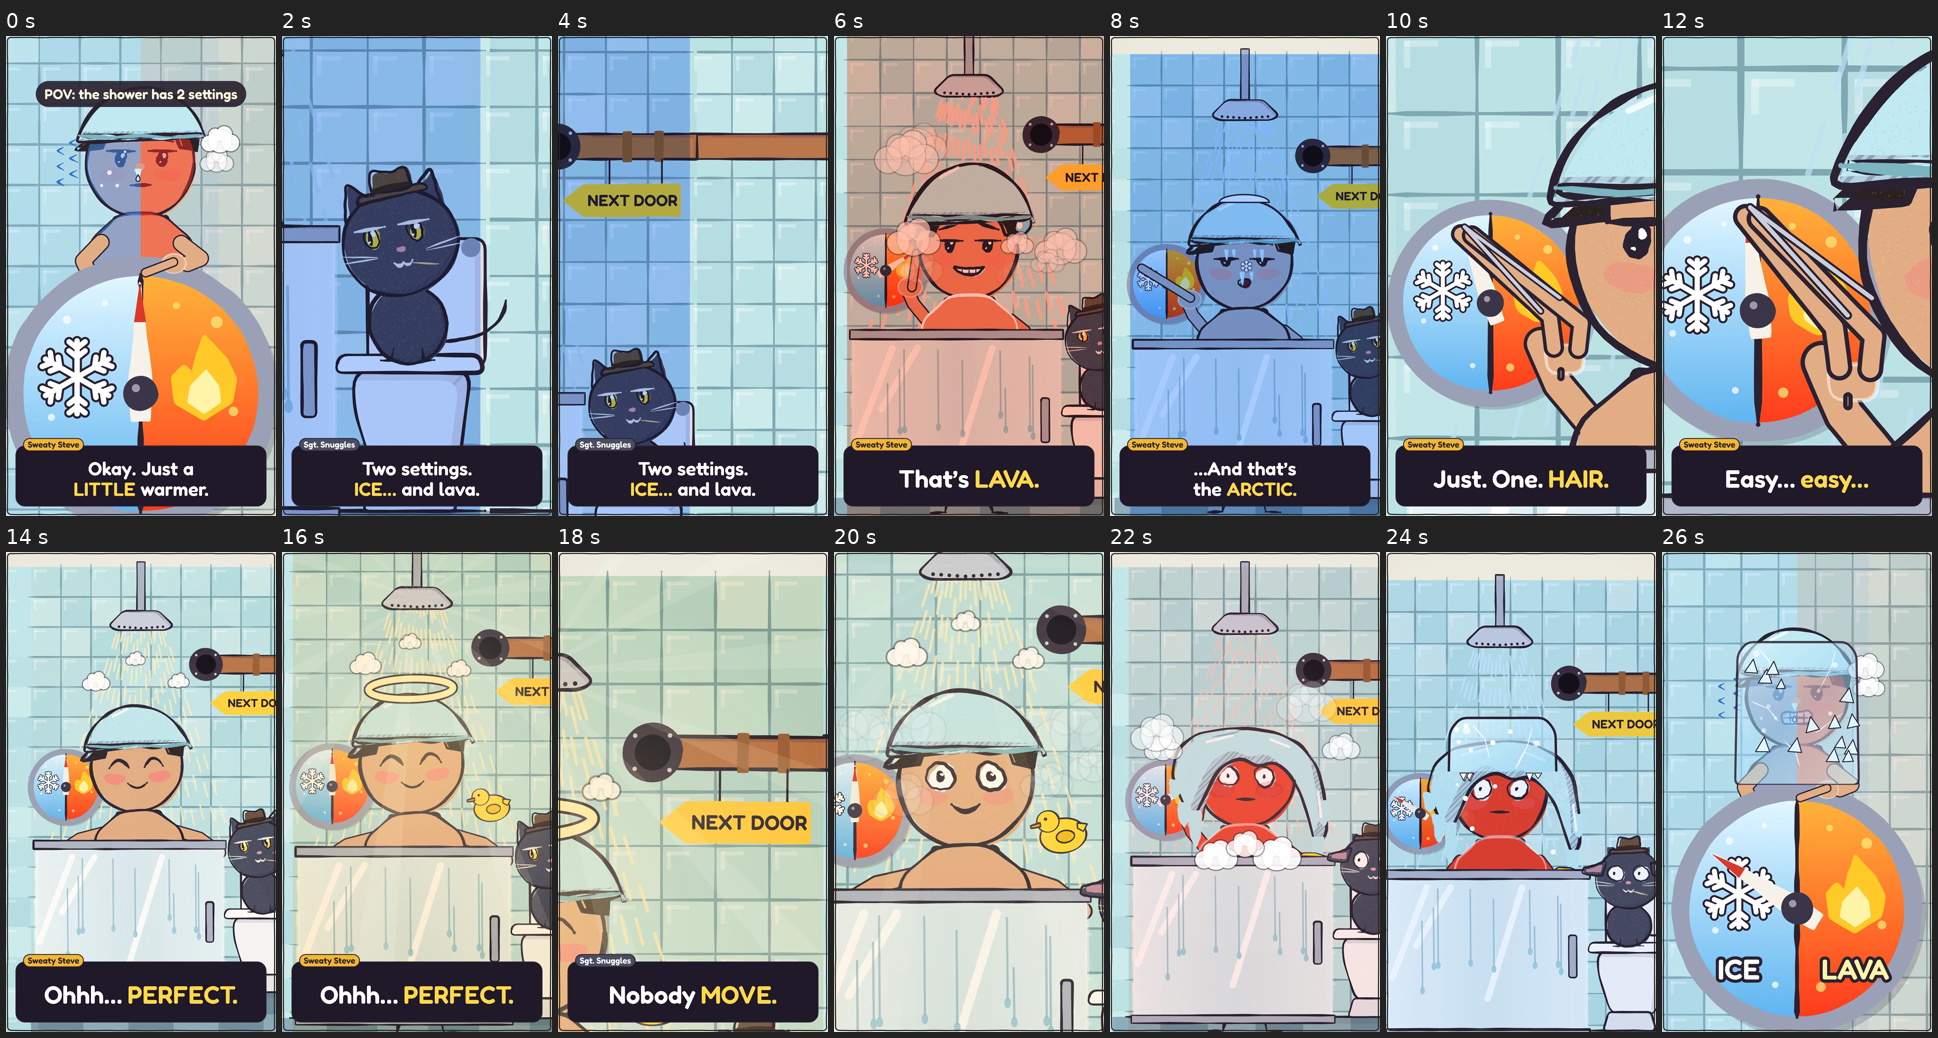
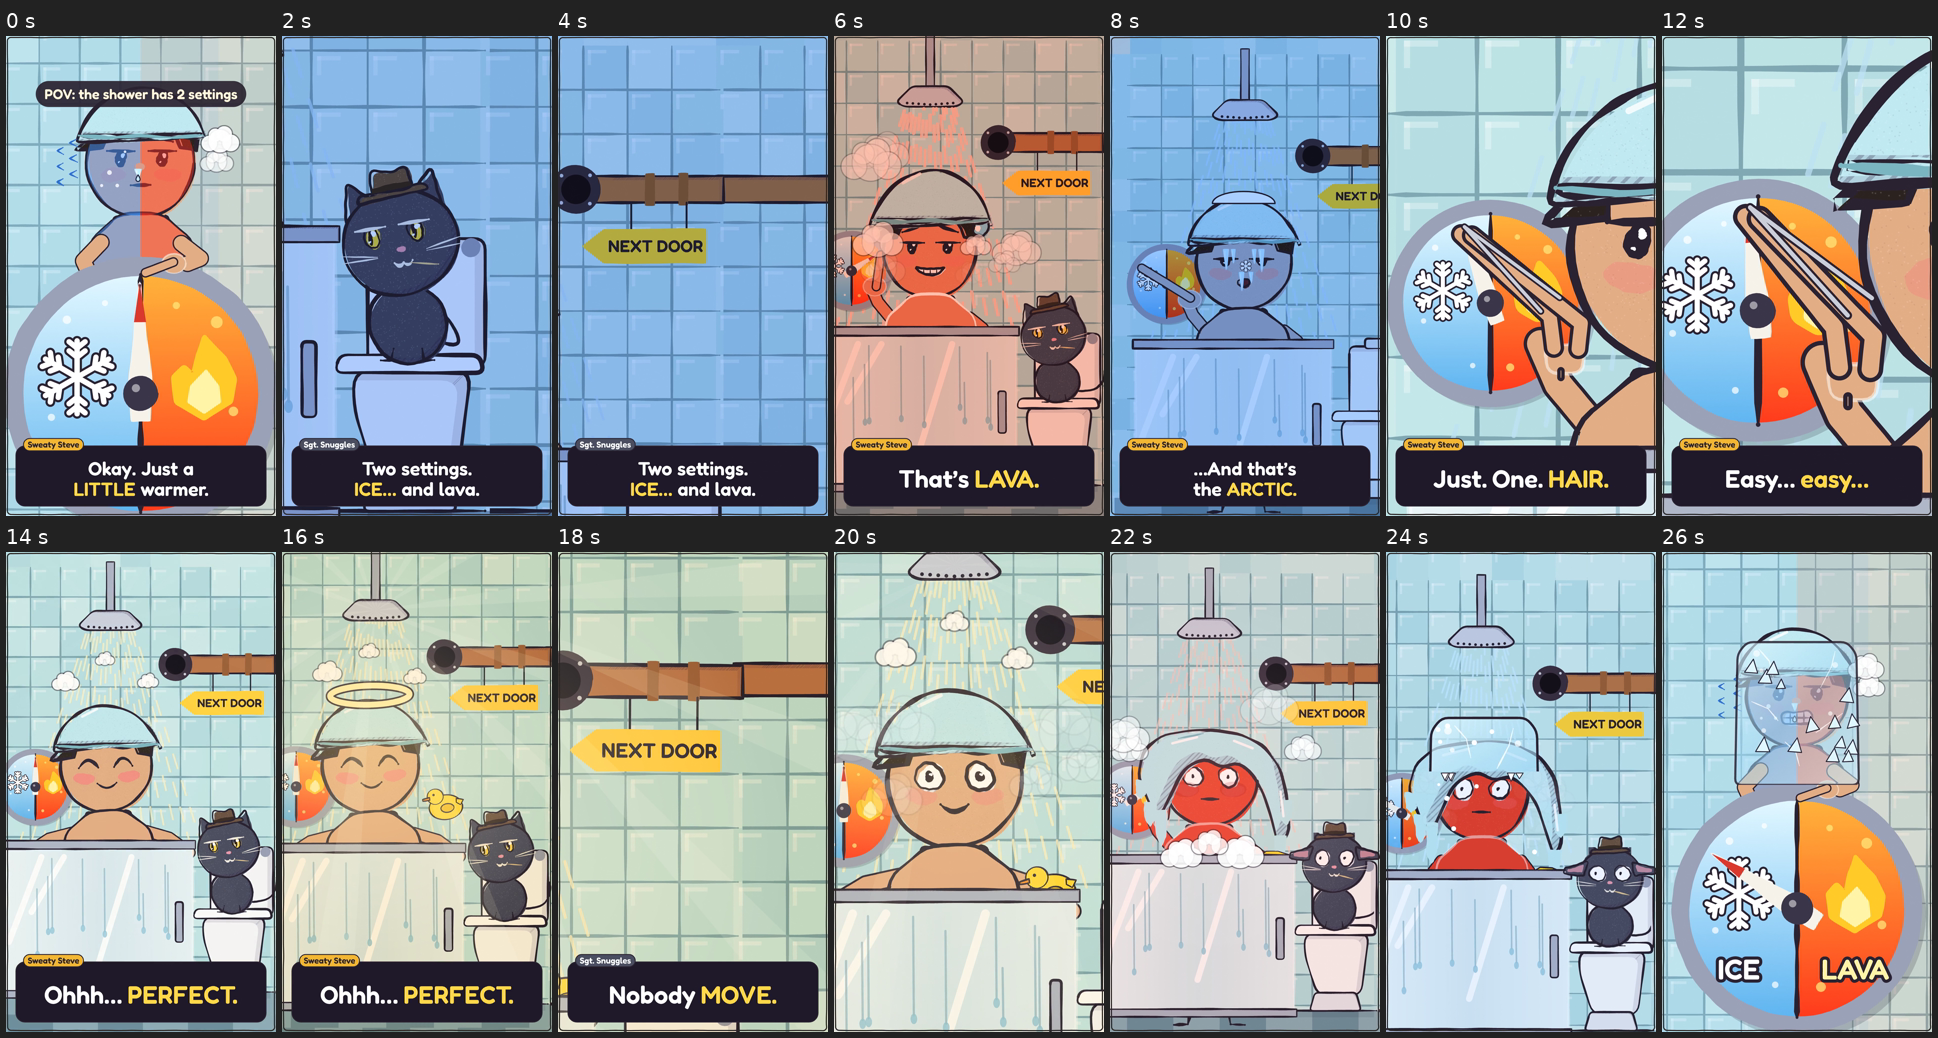
Tập 13 Perfect: render v2 (self-review rounds: framing, arctic icicles, Snuggles motion, pipe shots)

diff --git a/episodes/22-next/film/scene.js b/episodes/22-next/film/scene.js
@@ -18,7 +18,7 @@ const talking = (id, t) => { const l = LN[id]; return !!l && t >= l.start && t <
 const chat = (t, hz = 10) => Math.floor(t * hz) % 2 === 0;
 const hex = c => [1, 3, 5].map(i => parseInt(c.slice(i, i + 2), 16));
 const mix = (a, b, k) => '#' + hex(a).map((v, i) => Math.round(lerp(v, hex(b)[i], clamp01(k))).toString(16).padStart(2, '0')).join('');
-const tintAll = (rgba) => { ctx.save(); ctx.globalCompositeOperation = 'multiply'; ctx.fillStyle = rgba; ctx.fillRect(0, 0, W, H); ctx.restore(); };
+const tintAll = (rgba) => { ctx.save(); ctx.globalCompositeOperation = 'multiply'; ctx.fillStyle = rgba; ctx.fillRect(-2400, -2400, 6400, 6800); ctx.restore(); };
 const bell = (t, a, b) => Math.sin(Math.PI * seg(t, a, b));   // 0 → 1 → 0
 
 // ---------- captions (bottom plate; never over the faces; none during the punch and the button) ----------
@@ -124,7 +124,7 @@ function pose(t) {   // Steve's face by time → [steve pose, skin colour, extra
   let p = { eyes: 'dot', lid: 0.15, brow: 'worried', mouth: 'line', look: 0.2, fx: [] }, skin = SK.n;
   if (t < 5.6) { p.mouth = chat(t, t < 2.5 ? 10 : 6) ? 'teeth' : 'line'; p.look = t > 2.5 ? -0.6 : 0.2; }
   else if (t < 7.6) { p = { eyes: 'dot', lid: 0.3, brow: 'worried', mouth: talking('s3', t) ? (chat(t, 9) ? 'strain' : 'small') : 'strain', look: 0, fx: ['sweat'] }; skin = mix(SK.n, '#f06a4a', 0.55 * seg(t, 5.6, 5.8)); }
-  else if (t < 9.5) { p = { eyes: 'dot', lid: 0.5, brow: 'worried', mouth: talking('s4', t) ? (chat(t, 9) ? 'small' : 'line') : (chat(t, 9) ? 'teeth' : 'line'), look: 0, fx: [] }; skin = mix(SK.n, '#8fb8e8', 0.6 * seg(t, 7.6, 7.9)); }
+  else if (t < 9.5) { p = { eyes: 'dot', lid: 0.5, brow: 'worried', mouth: talking('s4', t) ? (chat(t, 9) ? 'small' : 'line') : (chat(t, 16) ? 'teeth' : 'line'), look: 0, fx: [] }; skin = mix(SK.n, '#8fb8e8', 0.6 * seg(t, 7.6, 7.9)); }
   else if (t < 14.7) { p = { eyes: 'dot', lid: t < 12.3 ? 0.1 : 0.0, brow: undefined, mouth: (talking('s5', t) || talking('s5b', t)) ? (chat(t, 7) ? 'small' : 'line') : 'line', look: -0.9, fx: [] }; }
   else if (t < 20.0) { p = { eyes: 'happy', brow: undefined, mouth: talking('s6', t) ? (chat(t, 7) ? 'smile' : 'small') : 'smile', look: 0, fx: ['blush'] }; }
   else if (t < 22.0) { p = { eyes: t < 20.06 ? 'happy' : 'wide', lid: 0, brow: 'raised', mouth: 'smile', look: 0, fx: [] }; }
@@ -148,6 +148,7 @@ function room(t, o = {}) {
   const phase = t < 5.6 ? 'cold' : t < 7.6 ? 'lava' : t < 9.5 ? 'arctic' : t < 14.9 ? 'calm' : t < 20.0 ? 'gold' : t < 22.0 ? 'flush' : t < 24.4 ? 'punch' : 'ice';
   wall(t, 1700, 1700);
   ctx.save(); ctx.beginPath(); ctx.rect(1100, 0, 1400, 2000); ctx.clip(); ctx.translate(1080, 0); wall(t, 1700, 1700); ctx.restore();   // wall continues past the frame (close shots on the right)
+  for (const dx of [0, 1080]) { ctx.save(); ctx.beginPath(); ctx.rect(0, -1800, 2500, 1800); ctx.clip(); ctx.translate(dx, -1800); wall(t, 1700, H); ctx.restore(); }   // wall continues above the frame (pipe shot)
   { const p = spen(t, 81, 6); p.part([[1080, 354], [2400, 354], [2400, 426], [1080, 426]], '#b8764a', { shade: 0.22, lw: 7 }); }
   showerHead(t, 440, 215);
   // pipe: ticks (4.3), rattles (17.9→20), jumps on both flushes; the NEXT DOOR sign swings with it
@@ -177,7 +178,7 @@ function room(t, o = {}) {
   } else {
     armTube([[290, 1060], [260, 1100], [250, 1150]], 40, skin, 35); armTube([[590, 1060], [620, 1100], [630, 1150]], 40, skin, 36);
   }
-  const shiver = (phase === 'cold' || phase === 'arctic') ? 3 * Math.sin(t * 58) : (phase === 'lava' && t < 6.3 ? 5 * Math.sin(t * 50) : 0);
+  const shiver = (phase === 'cold' || phase === 'arctic') ? (phase === 'arctic' && t > 8.0 ? 5 : 3) * Math.sin(t * 58) : (phase === 'lava' && t < 6.3 ? 5 * Math.sin(t * 50) : 0);
   const hdy = (phase === 'punch' ? 0.35 * Math.sin(t * 7) : 0);
   ctx.save(); ctx.translate(shiver, 0);
   steve(XS, YS, 12, { ...p, headDy: hdy, tilt: (phase === 'flush' ? 0 : gold ? 2.5 * Math.sin(t * 3.2) : phase === 'punch' ? 1.2 * Math.sin(t * 5) : 0) }, skin, melt);
@@ -189,10 +190,10 @@ function room(t, o = {}) {
   if (phase === 'cold' || phase === 'arctic') {
     const g = phase === 'arctic' ? seg(t, 7.7, 8.4) : (t < 2.5 ? 0.6 : 0.4);
     const np = spen(t, 19, 5), nose = ellipsePts(440, 826, 15, 11, 16); void np;
-    icicle(432, 836, 14 + 36 * g, 16); icicle(468, 836, 10 + 20 * g, 12);
+    const nk = phase === 'arctic' ? eb(seg(t, 7.9, 8.07)) : g; icicle(432, 836, 14 + 56 * nk, 18); icicle(468, 836, 10 + 30 * nk, 14);
     if (phase === 'arctic') {
-      icicle(372, 750, 40 * seg(t, 7.85, 8.2), 14); icicle(508, 750, 46 * seg(t, 7.95, 8.3), 14); icicle(400, 750, 28 * seg(t, 8.05, 8.4), 11); icicle(480, 750, 30 * seg(t, 8.1, 8.4), 11);   // eyebrows
-      const sd = seg(t, 7.8, 8.2); ctx.save(); ctx.fillStyle = '#fff'; ctx.strokeStyle = INK; ctx.lineWidth = 5; ctx.beginPath(); ctx.ellipse(440, 568, 96 * sd, 30 * sd, 0, Math.PI, 0); ctx.closePath(); ctx.fill(); ctx.stroke(); ctx.restore();
+      icicle(372, 748, 78 * eb(seg(t, 8.1, 8.25)), 20); icicle(400, 748, 52 * eb(seg(t, 8.12, 8.27)), 15); icicle(508, 748, 86 * eb(seg(t, 8.3, 8.45)), 20); icicle(480, 748, 54 * eb(seg(t, 8.32, 8.47)), 15);   // eyebrows
+      const sd = eb(seg(t, 8.5, 8.7)); ctx.save(); ctx.fillStyle = '#fff'; ctx.strokeStyle = INK; ctx.lineWidth = 5; ctx.beginPath(); ctx.ellipse(440, 572, 120 * sd, 46 * sd, 0, Math.PI, 0); ctx.closePath(); ctx.fill(); ctx.stroke(); ctx.restore();
       const sf = seg(t, 8.3, 8.9); if (sf > 0 && sf < 1) snowflake(448, 700 + 110 * sf, 22, 4);
       if (t > 8.8) snowflake(448, 812, 20, 4);
     }
@@ -228,17 +229,23 @@ function room(t, o = {}) {
   // duck: floats up at 15.0, squeaks at 15.9, jolts on the flush, deflates at the punch
   if (t >= 15.0 && t < 22.0) {
     const rise = eo(seg(t, 15.0, 15.8)), sq = t > 15.9 && t < 16.1 ? 1 + 0.18 * Math.sin((t - 15.9) * 31) : 1;
-    ctx.save(); ctx.translate(705, lerp(1140, 955, rise) + 8 * Math.sin(t * 3.5)); ctx.scale(sq, 1 / sq); duck(0, 0, 0.9, false, -0.18 + 0.06 * Math.sin(t * 3)); ctx.restore();
+    ctx.save(); ctx.translate(705, lerp(1140, 955, rise) + (1100 - 955) * eio(seg(t, 17.0, 18.9)) * (t >= 17.0 ? 1 : 0) + 8 * Math.sin(t * 3.5) * (1 - seg(t, 17.0, 18.9))); ctx.scale(sq, 1 / sq); duck(0, 0, 0.9, false, -0.18 + 0.06 * Math.sin(t * 3)); ctx.restore();
   } else if (t >= 22) { const sag = seg(t, 22, 24.2); duck(705, 1088 + 10 * sag, 0.9, true, 0.1 + 0.12 * sag + 0.02 * Math.sin(t * 9)); }
   screen(t, 20, 1120, 770, 1700);
   toilet(t, 790, 1070, 1390, 1700);
   // Snuggles
   const sx = 925, sy = 1385; let sp = { eyes: 'dot', lid: 0.15, look: -0.9, mouth: 'line', tilt: -9, tail: 0.5 * Math.sin(t * 3) }, flat = false, snx = 0;
-  if (t >= 2.5 && t < 5.3) { sp.tail = Math.sin(t * 7) * 0.9; sp.tilt = -9 + 2 * Math.sin(t * 4); }
+  if (t >= 2.5 && t < 5.3) {
+    const fl = (a) => Math.sin(Math.PI * seg(t, a, a + 0.3)) * Math.sin((t - a) * 26);   // quick tail flick
+    sp.tail = 0.25 * Math.sin(t * 3) + 1.5 * fl(2.8) + 1.5 * fl(3.55);
+    const turn = eio(seg(t, 3.0, 3.6)) - eio(seg(t, 4.3, 4.8));   // small head turn toward the shower, then back
+    sp.tilt = -9 - 7 * turn + 1.5 * Math.sin(t * 4); sp.look = -0.9 - 0.1 * turn;
+    const bl = Math.sin(Math.PI * seg(t, 3.15, 3.85)); sp.lid = 0.15 + 0.8 * Math.pow(bl, 0.7); }
   if (t >= 13.4 && t < 14.9) { sp = { eyes: 'wide', lid: 0, look: -0.9, mouth: 'line', tilt: -9 - 6 * eo(seg(t, 13.4, 13.9)), tail: 0.2 + 0.4 * Math.sin(t * 9) }; snx = -22 * eo(seg(t, 13.4, 13.9)); }
   if (t >= 17.87 && t < 22.0) { flat = true; sp = { eyes: 'wide', lid: 0, look: -0.9, mouth: 'line', tilt: -4, tail: 0.15 * Math.sin(t * 30) }; }
   if (t >= 22) { flat = true; sp = { eyes: 'pinpoint', lid: 0, look: -0.9, mouth: 'line', tail: 0.2 + 0.15 * Math.sin(t * 14), tilt: t > 23.2 ? -3 : 0 }; }
-  snuggles(sx + snx, sy, 7.6, sp, flat);
+  const hideSn = (t >= 1.0 && t < 2.5) || (t >= 4.0 && t < 5.5) || (t >= 17.0 && t < 19.0) || (t >= 7.7 && t < 10.8) || (t >= 20.0 && t < 22.0) || (t >= 25.0 && t < 26.0);   // out of shot where the camera would cut him in half
+  if (!hideSn) snuggles(sx + snx, sy, 7.6, sp, flat);
   // paw tap on the ice
   if (t >= 25.9) { const tp = seg(t, 25.9, 26.25), hit = t > 26.2 ? Math.exp(-(t - 26.2) * 12) : 0, ext = tp < 1 ? eio(tp) : 1;
     const tipx = lerp(800, 650, ext) - 18 * hit, tipy = lerp(1270, 1120, ext); ctx.save(); const pw = spen(t, 130, 5); pw.tube([[870, 1330], [lerp(840, 740, ext), lerp(1300, 1190, ext)], [tipx, tipy]], 34, '#6a6c80');
@@ -291,9 +298,9 @@ function build() {
     // 3 · Snuggles on the toilet lid, tail flick (s2)
     [2.5, t => { cam(kf(t, [[2.5, 1.85], [4.0, 2.0]]), 945, 1200, () => room(t)); }],
     // 4 · the pipe + NEXT DOOR sign ticks once
-    [4.0, t => { cam(kf(t, [[4.0, 1.25], [5.5, 1.45]]), kf(t, [[4.0, 1085], [5.5, 1090]]), 760, () => room(t)); }],
+    [4.0, t => { cam(kf(t, [[4.0, 1.4], [5.5, 1.5]]), kf(t, [[4.0, 1010], [5.5, 1020]]), 625, () => room(t)); }],
     // 5 · LAVA blast (s3): flat on the tiles, steam burst, cap balloons
-    [5.5, t => { cam(kf(t, [[5.5, 1.0], [7.7, 1.14]]), 440, 900, () => room(t), 0, ...shake(t, t < 6.4 ? 7 : 0, 41)); }],
+    [5.5, t => { cam(kf(t, [[5.5, 1.0], [7.7, 1.06]]), kf(t, [[5.5, 562], [7.7, 596]]), 900, () => room(t), 0, ...shake(t, t < 6.4 ? 7 : 0, 41)); }],
     // 6 · ARCTIC (s4): icicles pop in, snowdrift, snowflake
     [7.7, t => { cam(kf(t, [[7.7, 1.25], [9.5, 1.0]]), 440, 850, () => room(t)); }],
     // 7 · loupe pops into his eye (s5), push to the face
@@ -301,19 +308,19 @@ function build() {
     // 8 · macro: tweezers on the pointer, it creeps a hair (s5 + s5b)
     [10.8, t => { cam(kf(t, [[10.8, 2.7], [13.4, 3.5]]), 185, 840, () => room(t)); }],
     // 9 · Snuggles leans in too, eyes wide
-    [13.4, t => { cam(kf(t, [[13.4, 1.55], [14.9, 1.9]]), 880, 1180, () => room(t)); }],
+    [13.4, t => { cam(kf(t, [[13.4, 1.55], [14.9, 1.9]]), 1020, kf(t, [[13.4, 1235], [14.9, 1215]]), () => room(t)); }],
     // 10 · PEAK (s6): golden light, halo, the duck pops up
-    [14.9, t => { cam(kf(t, [[14.9, 1.0], [17.0, 1.13]]), 440, 900, () => room(t)); }],
+    [14.9, t => { cam(kf(t, [[14.9, 1.0], [17.0, 1.06]]), kf(t, [[14.9, 562], [17.0, 596]]), 900, () => room(t)); }],
     // 11 · push-in on the pipe (s7): the rattle shakes the sign
-    [17.0, t => { cam(kf(t, [[17.0, 1.15], [19.0, 1.8]]), 790, 480, () => room(t)); }],
+    [17.0, t => { cam(kf(t, [[17.0, 1.4], [19.0, 1.8]]), kf(t, [[17.0, 1010], [19.0, 990]]), kf(t, [[17.0, 625], [19.0, 640]]), () => room(t)); }],
     // 12 · Snuggles' ears go flat
-    [19.0, t => { cam(kf(t, [[19.0, 1.5], [20.0, 1.75]]), 900, 1160, () => room(t)); }],
+    [19.0, t => { cam(kf(t, [[19.0, 1.5], [20.0, 1.75]]), 990, kf(t, [[19.0, 1255], [20.0, 1235]]), () => room(t)); }],
     // 13 · FLUSH (20.0): eyes snap open, smile frozen, the pipe bounces, camera kick
-    [20.0, t => { cam(kf(t, [[20.0, 1.0], [20.12, 1.35], [22.0, 1.5]], eo), 450, 830, () => room(t), 0, ...shake(t, 6 * Math.exp(-(t - 20) * 2), 45)); }],
+    [20.0, t => { cam(kf(t, [[20.0, 1.0], [20.12, 1.35], [22.0, 1.5]], eo), 480, 830, () => room(t), 0, ...shake(t, 6 * Math.exp(-(t - 20) * 2), 45)); }],
     // 14 · PUNCH 22.0–24.0: hard cut to red; steam plumes, one blink, duck sags (no caption)
-    [22.0, t => { cam(kf(t, [[22.0, 1.0], [24.0, 1.12]], t2 => t2), 440, 850, () => room(t)); }],
+    [22.0, t => { cam(kf(t, [[22.0, 1.0], [24.0, 1.06]], t2 => t2), kf(t, [[22.0, 562], [24.0, 596]], t2 => t2), 850, () => room(t)); }],
     // 15 · second FLUSH: pointer snaps to ICE, the pipe jumps
-    [24.0, t => { cam(kf(t, [[24.0, 1.0], [25.0, 1.06]]), 520, 800, () => room(t), 0, ...shake(t, t > 24.2 ? 6 * Math.exp(-(t - 24.2) * 2) : 0, 45)); }],
+    [24.0, t => { cam(kf(t, [[24.0, 1.0], [25.0, 1.06]]), kf(t, [[24.0, 562], [25.0, 590]]), 800, () => room(t), 0, ...shake(t, t > 24.2 ? 6 * Math.exp(-(t - 24.2) * 2) : 0, 45)); }],
     // 16 · ice crackles over him until he is a block
     [25.0, t => { cam(kf(t, [[25.0, 1.0], [26.0, 1.5]]), 440, 850, () => room(t)); }],
     // 17 · Snuggles taps the block: tink
